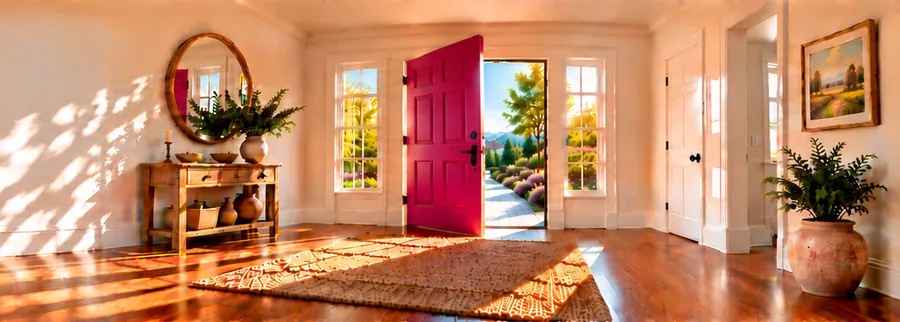
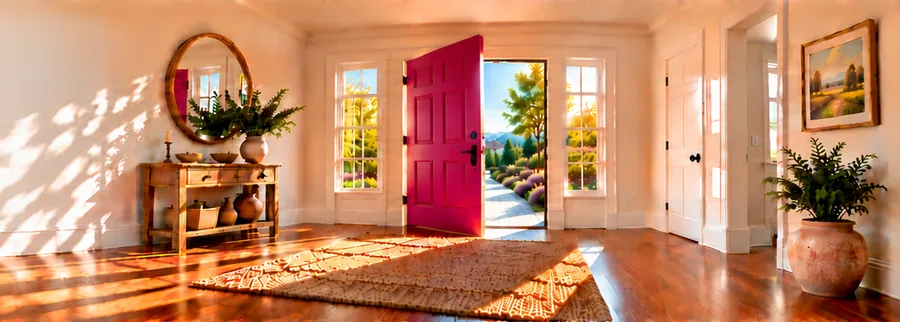
Homepage hero 2031: lighten the left wall for tagline contrast
Owner kept the magenta door and asked for more contrast behind the words: the
wall is blended 55% toward cream (#F5F2EC), feathered out between 40% and 50% of
the width and above the floor line, so the door, console and floor are
untouched. Navy tagline contrast now 7.25:1 minimum, 7.6:1 median.

Claude-Session: https://claude.ai/code/session_01EfD7Mnybftg6QaoMS7j2Y4

Changed region(s): [[0.0, 0.0, 0.0933, 0.4348], [0.0, 0.528, 0.0622, 0.6832]]

diff --git a/src/pages/RPPHomeV3.tsx b/src/pages/RPPHomeV3.tsx
@@ -85,7 +85,14 @@ const RPPHomeV3 = () => {
         >
           <img
             id="rpp-hero-image"
-            /* rpp-hero-2030 (Oct 4, 2026): the same entryway photograph, recut
+            /* rpp-hero-2031 (Oct 18, 2026): the owner's new entryway render with
+               a magenta door matching the logo. Same 1920x364 band and the same
+               mobile crops. The render was warmer than 2030, so the left wall
+               (the tagline's column) was blended 55% toward cream, feathered out
+               before the mirror; navy on it measures 7.25:1 at its weakest
+               (2030 was 5.2:1). Re-measure if the artwork changes again.
+
+               rpp-hero-2030 (Oct 4, 2026): the same entryway photograph, recut
                by the owner with more headroom — the lantern, ceiling line,
                rug and right-hand planter are no longer clipped. Desktop
                1920x364 (5.27:1); mobile 1200x430, cropped from the right so
